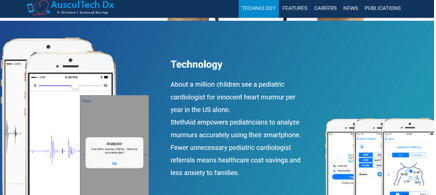
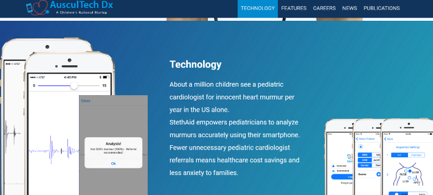
Add border radius

diff --git a/project1.html b/project1.html
@@ -108,6 +108,7 @@
                     src="images/project_1_1.PNG"
                     alt="Home"
                     class="w3-image"
+                    style="border-radius: 15px"
                   />
 
                   <figcaption class="w3-center">Home</figcaption>
@@ -117,6 +118,7 @@
                     src="images/project_1_2.PNG"
                     alt="Careers"
                     class="w3-image"
+                    style="border-radius: 15px"
                   />
 
                   <figcaption class="w3-center">Careers</figcaption>
@@ -128,6 +130,7 @@
                     src="images/project_1_3.PNG"
                     alt="Publications"
                     class="w3-image"
+                    style="border-radius: 15px"
                   />
 
                   <figcaption class="w3-center">Publications</figcaption>
@@ -138,6 +141,7 @@
                     src="images/project_1_4.PNG"
                     alt="Technology"
                     class="w3-image"
+                    style="border-radius: 15px"
                   />
 
                   <figcaption class="w3-center">Technology</figcaption>
@@ -152,6 +156,7 @@
                     src="images/project_1_5.PNG"
                     alt="Home"
                     class="w3-image"
+                    style="border-radius: 15px"
                   />
 
                   <figcaption class="w3-center">Home</figcaption>
@@ -162,6 +167,7 @@
                     src="images/project_1_6.PNG"
                     alt="Contact"
                     class="w3-image"
+                    style="border-radius: 15px"
                   />
 
                   <figcaption class="w3-center">Contact</figcaption>
@@ -173,6 +179,7 @@
                     src="images/project_1_7.PNG"
                     alt="Publications"
                     class="w3-image"
+                    style="border-radius: 15px"
                   />
 
                   <figcaption class="w3-center">Publications</figcaption>
@@ -182,6 +189,7 @@
                     src="images/project_1_8.PNG"
                     alt="Technology"
                     class="w3-image"
+                    style="border-radius: 15px"
                   />
                   <figcaption class="w3-center">Technology</figcaption>
                 </figure>

diff --git a/project6.html b/project6.html
@@ -112,6 +112,7 @@
                 src="images/project_6_1.PNG"
                 alt="Original Bar Chart"
                 class="w3-image"
+                style="border-radius: 15px"
               />
 
               <figcaption class="w3-center">Original Bar Chart</figcaption>
@@ -121,6 +122,7 @@
                 src="images/project_6_2.PNG"
                 alt="Recreated Bar Chart"
                 class="w3-image"
+                style="border-radius: 15px"
               />
 
               <figcaption class="w3-center">Recreated Bar Chart</figcaption>
@@ -130,6 +132,7 @@
                 src="images/project_6_3.PNG"
                 alt="Improved Bar Chart"
                 class="w3-image"
+                style="border-radius: 15px"
               />
 
               <figcaption class="w3-center">Improved Bar Chart</figcaption>
@@ -151,6 +154,7 @@
                 src="images/project_6_4.PNG"
                 alt="Original Scatter Plot"
                 class="w3-image"
+                style="border-radius: 15px"
               />
 
               <figcaption class="w3-center">Original Scatter Plot</figcaption>
@@ -160,6 +164,7 @@
                 src="images/project_6_5.PNG"
                 alt="Recreated Scatter Plot"
                 class="w3-image"
+                style="border-radius: 15px"
               />
 
               <figcaption class="w3-center">Recreated Scatter Plot</figcaption>
@@ -169,6 +174,7 @@
                 src="images/project_6_6.PNG"
                 alt="Improved Scatter Plot"
                 class="w3-image"
+                style="border-radius: 15px"
               />
 
               <figcaption class="w3-center">Improved Scatter Plot</figcaption>

diff --git a/project4.html b/project4.html
@@ -114,6 +114,7 @@
                 src="images/project_4_1.PNG"
                 alt="Heatmap"
                 class="w3-image"
+                style="border-radius: 15px"
               />
               <figcaption class="w3-center">Correlation Heatmap</figcaption>
             </figure>
@@ -124,6 +125,7 @@
                     src="images/project_4_2.PNG"
                     alt="Age vs Max Heart Rate based on Target"
                     class="w3-image"
+                    style="border-radius: 15px"
                   />
 
                   <figcaption class="w3-center">
@@ -136,6 +138,7 @@
                     src="images/project_4_3.PNG"
                     alt="Chest Pain vs Exercise-Induced Angina based on Target"
                     class="w3-image"
+                    style="border-radius: 15px"
                   />
 
                   <figcaption class="w3-center">
@@ -149,6 +152,7 @@
                     src="images/project_4_4.PNG"
                     alt="ST Depression vs Slope of ST Segment based on Target"
                     class="w3-image"
+                    style="border-radius: 15px"
                   />
 
                   <figcaption class="w3-center">
@@ -160,6 +164,7 @@
                     src="images/project_4_5.PNG"
                     alt="Max Heart Rate vs Slope of ST Segment based on Target"
                     class="w3-image"
+                    style="border-radius: 15px"
                   />
                   <figcaption class="w3-center">
                     Max Heart Rate vs Slope of ST Segment

diff --git a/project14.html b/project14.html
@@ -116,6 +116,7 @@
                     src="images/project_14_1.PNG"
                     alt="Salary vs Job Title"
                     class="w3-image"
+                    style="border-radius: 15px"
                   />
 
                   <figcaption class="w3-center">Salary vs Job Title</figcaption>
@@ -125,6 +126,7 @@
                     src="images/project_14_2.PNG"
                     alt="Salary vs Remote Ratio"
                     class="w3-image"
+                    style="border-radius: 15px"
                   />
 
                   <figcaption class="w3-center">
@@ -138,6 +140,7 @@
                     src="images/project_14_3.PNG"
                     alt="Remote Ratio vs Experience Level"
                     class="w3-image"
+                    style="border-radius: 15px"
                   />
 
                   <figcaption class="w3-center">
@@ -149,6 +152,7 @@
                     src="images/project_14_4.PNG"
                     alt="Salary vs Experience Level"
                     class="w3-image"
+                    style="border-radius: 15px"
                   />
 
                   <figcaption class="w3-center">
@@ -162,6 +166,7 @@
                 src="images/project_14_5.PNG"
                 alt="Salary vs Job Title based on Experience Level"
                 class="w3-image"
+                style="border-radius: 15px"
               />
 
               <figcaption class="w3-center">

diff --git a/project13.html b/project13.html
@@ -110,6 +110,7 @@
                 src="images/project_13_1.PNG"
                 alt="Food Profile"
                 class="w3-image"
+                style="border-radius: 15px"
               />
               <figcaption class="w3-center">
                 Food profile example from first version
@@ -120,6 +121,7 @@
                 src="images/project_13_2.PNG"
                 alt="Calculations Display"
                 class="w3-image"
+                style="border-radius: 15px"
               />
               <figcaption class="w3-center">
                 Calculations display example from first version
@@ -148,6 +150,7 @@
                 src="images/project_13_3.PNG"
                 alt="Food Profile"
                 class="w3-image"
+                style="border-radius: 15px"
               />
               <figcaption class="w3-center">
                 Food profile example from final version
@@ -158,6 +161,7 @@
                 src="images/project_13_4.PNG"
                 alt="Calculations Display"
                 class="w3-image"
+                style="border-radius: 15px"
               />
               <figcaption class="w3-center">
                 Calculations display example from final version

diff --git a/project5.html b/project5.html
@@ -122,6 +122,7 @@
                     src="images/project_5_1.PNG"
                     alt="Residual vs Fitted"
                     class="w3-image"
+                    style="border-radius: 15px"
                   />
 
                   <figcaption class="w3-center">Residual vs Fitted</figcaption>
@@ -132,6 +133,7 @@
                     src="images/project_5_2.PNG"
                     alt="Normal Q-Q"
                     class="w3-image"
+                    style="border-radius: 15px"
                   />
 
                   <figcaption class="w3-center">Normal Q-Q</figcaption>
@@ -143,6 +145,7 @@
                     src="images/project_5_3.PNG"
                     alt="Scale-Location"
                     class="w3-image"
+                    style="border-radius: 15px"
                   />
 
                   <figcaption class="w3-center">Scale-Location</figcaption>
@@ -152,6 +155,7 @@
                     src="images/project_5_4.PNG"
                     alt="Residual vs Leverage"
                     class="w3-image"
+                    style="border-radius: 15px"
                   />
                   <figcaption class="w3-center">
                     Residual vs Leverage

diff --git a/project11.html b/project11.html
@@ -115,6 +115,7 @@
                 src="images/project_11_1.PNG"
                 alt="Home Page"
                 class="w3-image"
+                style="border-radius: 15px"
               />
               <figcaption class="w3-center">Home Page</figcaption>
             </figure>
@@ -123,6 +124,7 @@
                 src="images/project_11_2.PNG"
                 alt="About Page"
                 class="w3-image"
+                style="border-radius: 15px"
               />
               <figcaption class="w3-center">About Page</figcaption>
             </figure>
@@ -131,6 +133,7 @@
                 src="images/project_11_3.PNG"
                 alt="Post Page"
                 class="w3-image"
+                style="border-radius: 15px"
               />
               <figcaption class="w3-center">Post Page</figcaption>
             </figure>
@@ -139,6 +142,7 @@
                 src="images/project_11_4.PNG"
                 alt="Sign Up Screen"
                 class="w3-image"
+                style="border-radius: 15px"
               />
               <figcaption class="w3-center">Sign Up Screen</figcaption>
             </figure>

diff --git a/project12.html b/project12.html
@@ -115,6 +115,7 @@
                 src="images/project_12_1.PNG"
                 alt="Top Ingredients"
                 class="w3-image"
+                style="border-radius: 15px"
               />
               <figcaption class="w3-center">
                 Top 25 most common ingredients overall
@@ -125,6 +126,7 @@
                 src="images/project_12_2.PNG"
                 alt="Top Ingredients for Dairy/Egg"
                 class="w3-image"
+                style="border-radius: 15px"
               />
               <figcaption class="w3-center">
                 Top 10 ingredients for dairy/egg-based products
@@ -135,6 +137,7 @@
                 src="images/project_12_3.PNG"
                 alt="Most Common Combinations"
                 class="w3-image"
+                style="border-radius: 15px"
               />
               <figcaption class="w3-center">
                 Most common ingredient combinations

diff --git a/project3.html b/project3.html
@@ -108,6 +108,7 @@
                 src="images/project_3_1.PNG"
                 alt="Program Screenshot"
                 class="w3-image"
+                style="border-radius: 15px"
               />
               <figcaption class="w3-center">
                 Example of cart contents
@@ -119,6 +120,7 @@
                 src="images/project_3_2.PNG"
                 alt="Program Screenshot"
                 class="w3-image"
+                style="border-radius: 15px"
               />
               <figcaption class="w3-center">
                 Example of department searching
@@ -129,6 +131,7 @@
                 src="images/project_3_3.PNG"
                 alt="Program Screenshot"
                 class="w3-image"
+                style="border-radius: 15px"
               />
               <figcaption class="w3-center">
                 Example of narrowing down products

diff --git a/project2.html b/project2.html
@@ -113,6 +113,7 @@
                 alt="App Screenshot"
                 hspace="20"
                 class="w3-image"
+                style="border-radius: 15px"
               />
               <figcaption class="w3-center">Selection example</figcaption>
             </figure>
@@ -122,6 +123,7 @@
                 alt="App Screenshot"
                 hspace="20"
                 class="w3-image"
+                style="border-radius: 15px"
               />
               <figcaption class="w3-center">Input example</figcaption>
             </figure>
@@ -141,6 +143,7 @@
                 src="images/project_2_3.PNG"
                 alt="Spreadsheet Screenshot"
                 class="w3-image"
+                style="border-radius: 15px"
               />
               <figcaption class="w3-center">Spreadsheet example</figcaption>
             </figure>

diff --git a/project9.html b/project9.html
@@ -111,7 +111,12 @@
           >
           <div class="w3-center">
             <figure>
-              <img src="images/project_9_1.PNG" alt="Table" class="w3-image" />
+              <img
+                src="images/project_9_1.PNG"
+                alt="Table"
+                class="w3-image"
+                style="border-radius: 15px"
+              />
               <figcaption class="w3-center">Example Table</figcaption>
             </figure>
             <figure>
@@ -119,6 +124,7 @@
                 src="images/project_9_2.PNG"
                 alt="Data Visualization"
                 class="w3-image"
+                style="border-radius: 15px"
               />
               <figcaption class="w3-center">
                 Example Data Visualization

diff --git a/project10.html b/project10.html
@@ -124,6 +124,7 @@
                 src="images/project_10_1.PNG"
                 alt="Figma Website Designs"
                 class="w3-image"
+                style="border-radius: 15px"
               />
               <figcaption class="w3-center">
                 Figma Website Homepage Design
@@ -134,6 +135,7 @@
                 src="images/project_10_2.PNG"
                 alt="Prezi Dashboard"
                 class="w3-image"
+                style="border-radius: 15px"
               />
               <figcaption class="w3-center">Prezi Dashboard</figcaption>
             </figure>
